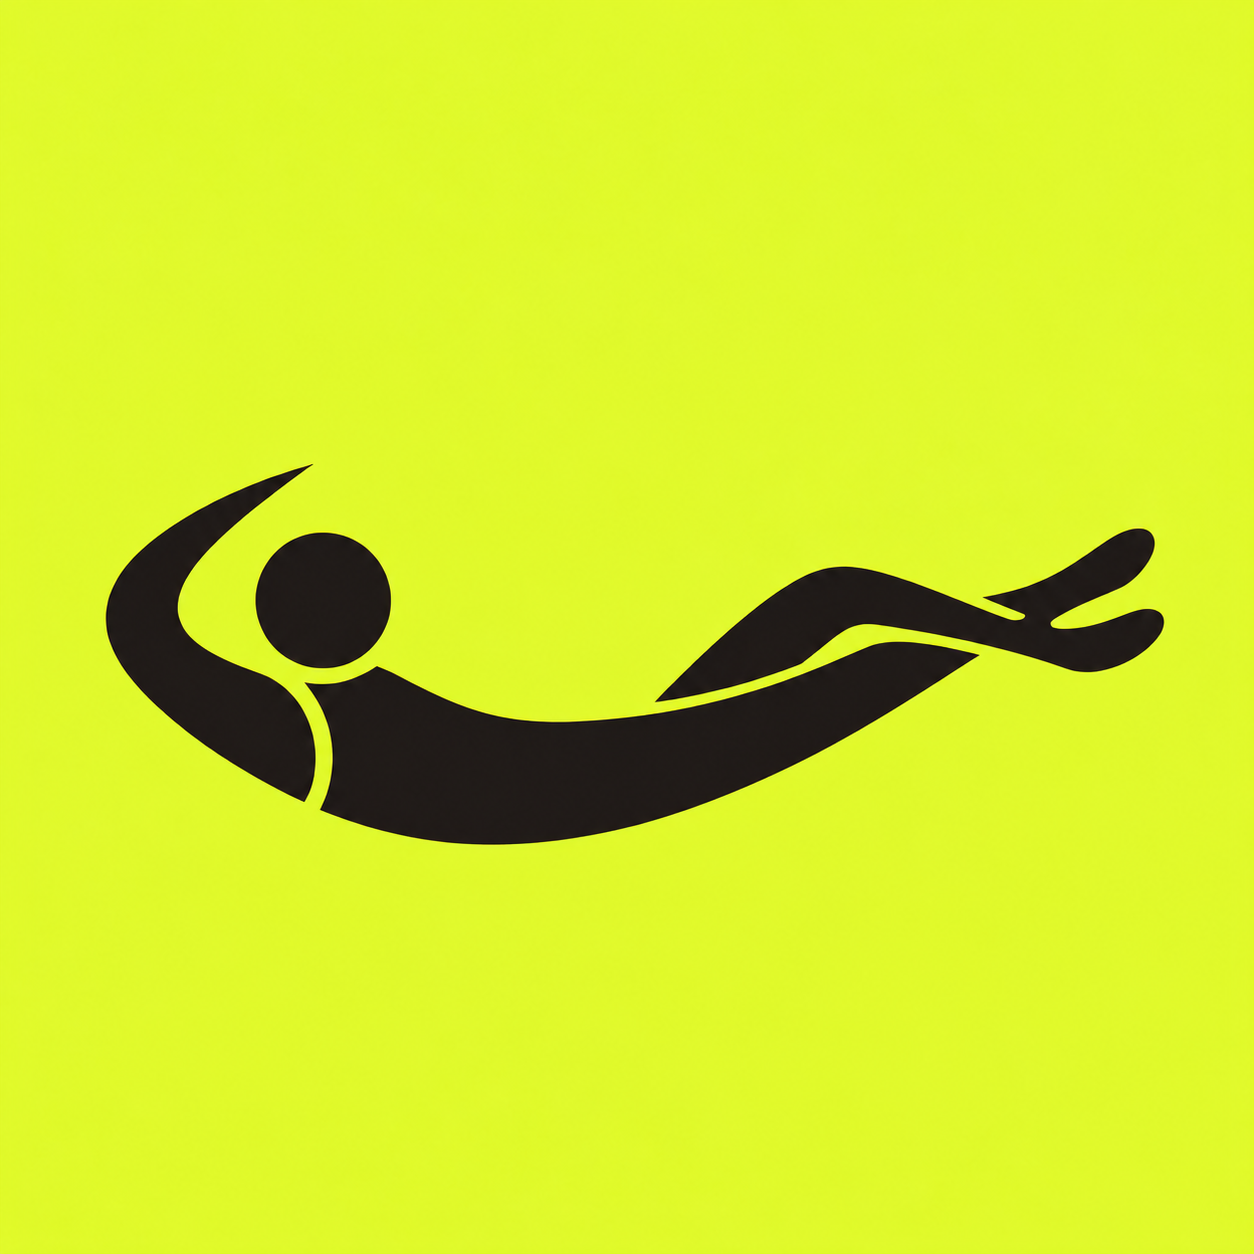
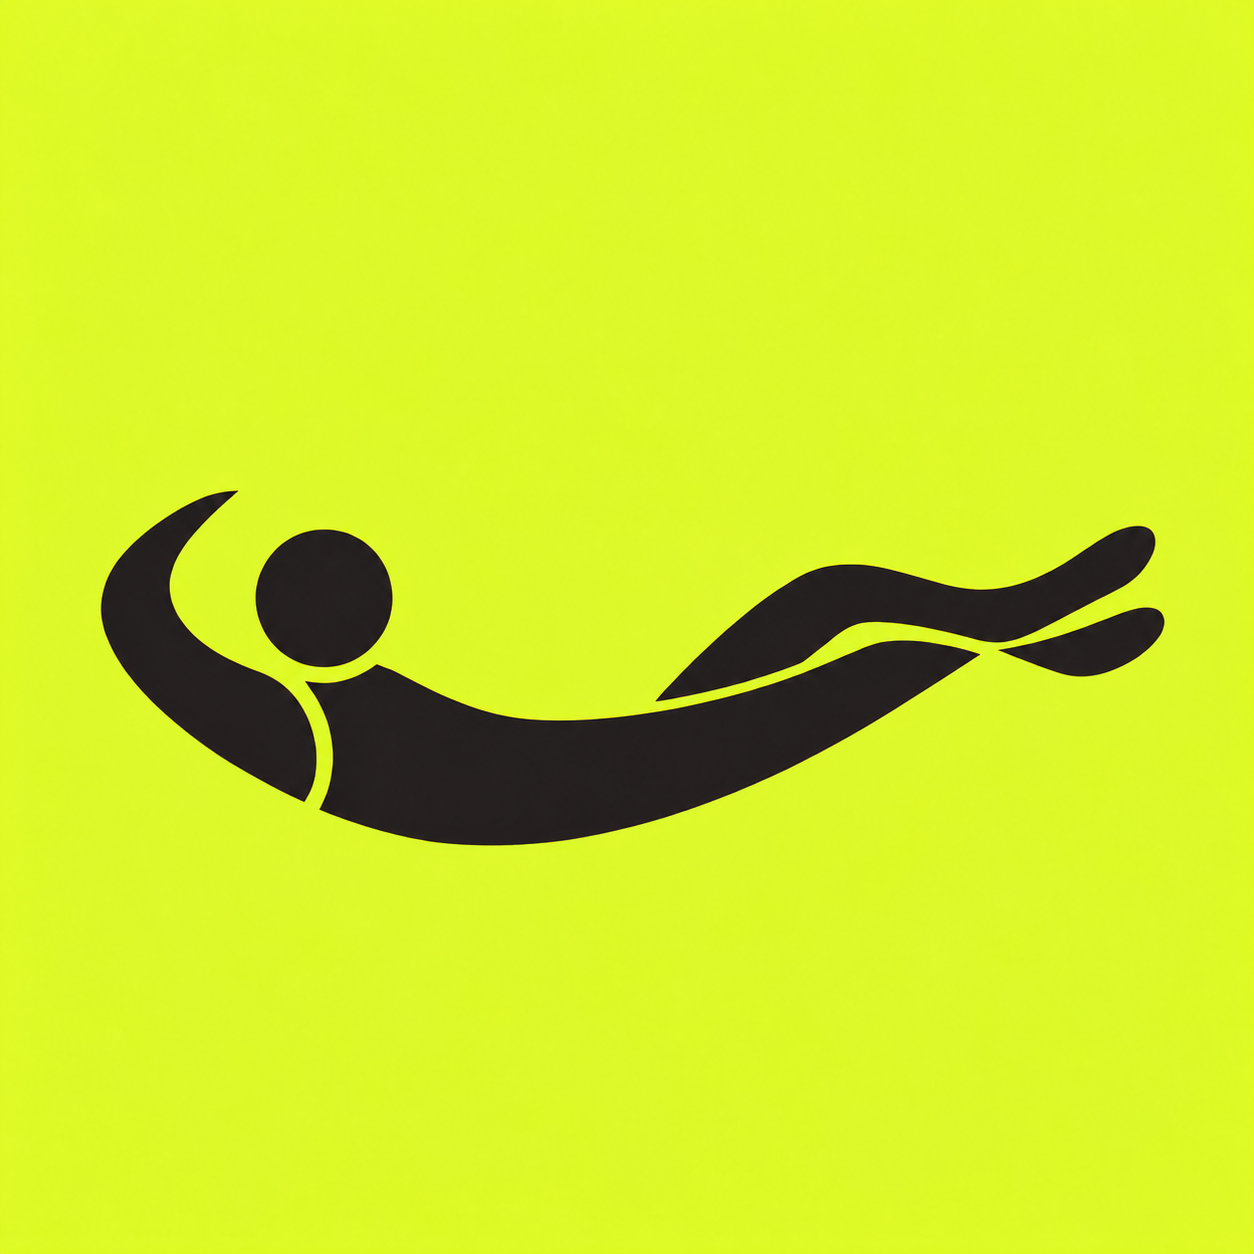
Separate Nooprun feet and strengthen the upper ankle

diff --git a/demos/nooprun/icon-options/index.html b/demos/nooprun/icon-options/index.html
@@ -12,7 +12,7 @@
 </head>
 <body>
 <header><div class="kicker">NOOPRUN / FINAL CANDIDATES</div><h1>눕런 아이콘 10안</h1><p>머리와 목을 분리하고, 팔의 흐름을 다시 정리했어요.<br>같은 색과 같은 크기로 비교해 보세요.</p><div class="toolbar"><div class="switch" aria-label="미리보기 크기"><button data-size="large" aria-pressed="true">큰 시안</button><button data-size="small" aria-pressed="false">아이콘 크기</button></div><span class="hint">그림을 누르면 크게 볼 수 있어요.</span></div></header>
-<main><section class="refined" aria-label="선택한 9번 수정안"><img src="../assets/brand/nooprun-recline.png?v=nine-refined-1" width="1254" height="1254" alt="9번 수정안: 작은 머리, 1번의 팔 곡선, 가늘고 연결된 발목"><div><span class="refined-label">09 / REFINED</span><h2>9번, 조금 더 가볍게.</h2><p>머리는 작게, 팔은 1번의 곡선으로.<br>다리는 가늘게 살짝 교차하고<br>발목에서 발끝까지 이어지도록.</p><a href="../assets/brand/nooprun-recline.png?v=nine-refined-1" download="nooprun-09-refined.png">수정안 PNG 저장 ↓</a></div></section><h2 class="previous-title">처음 10안과 비교</h2><div class="grid" id="grid"></div><div class="selection"><span id="selection">마음에 드는 안에 ✓를 남겨 보세요.</span><button id="copy" disabled>번호 복사</button></div><div class="status" id="status" role="status"></div></main>
+<main><section class="refined" aria-label="선택한 9번 수정안"><img src="../assets/brand/nooprun-recline.png?v=tip-ankle-1" width="1254" height="1254" alt="9번 수정안: 짧게 정리한 손끝, 도톰한 위쪽 발목, 분리된 두 발"><div><span class="refined-label">09 / REFINED</span><h2>9번, 조금 더 가볍게.</h2><p>손끝 위치를 짧게 정리하고,<br>위쪽 발목에는 조금 더 두께를.<br>두 발이 겹치는 사이는 분명하게.</p><a href="../assets/brand/nooprun-recline.png?v=tip-ankle-1" download="nooprun-09-refined.png">수정안 PNG 저장 ↓</a></div></section><h2 class="previous-title">처음 10안과 비교</h2><div class="grid" id="grid"></div><div class="selection"><span id="selection">마음에 드는 안에 ✓를 남겨 보세요.</span><button id="copy" disabled>번호 복사</button></div><div class="status" id="status" role="status"></div></main>
 <footer><span>10개의 검토 후보 · 고르기는 이 화면에서만 저장돼요.</span><span>PNG 원본은 각 시안을 눌러 저장할 수 있어요.</span></footer>
 <dialog id="detail" aria-labelledby="detail-title"><div class="dialog-head"><h2 id="detail-title"></h2><button class="close" aria-label="닫기">×</button></div><img class="detail-img" id="detail-img" alt=""><div class="dialog-foot"><div class="arrows"><button id="prev" aria-label="이전 시안">←</button><button id="next" aria-label="다음 시안">→</button></div><a class="download" id="download" download>PNG 저장 ↓</a></div></dialog>
 <script>

diff --git a/demos/nooprun/app.js b/demos/nooprun/app.js
@@ -100,7 +100,7 @@
     const chartIcon='<path d="M5 20V12m7 8V4m7 16V8"/>';
     const gearIcon='<path d="m10 3 .5-1h3l.5 3 2 1 2.5-1 1.5 2.6-2 2V13l2 2-1.5 2.6-2.5-1-2 1-.5 3h-3l-.5-3-2-1-2.5 1L3 15l2-2V10L3 8l1.5-2.6L7 6l2-1Z"/><circle cx="11.5" cy="11.5" r="3"/>';
     return `<section class="app-screen home lobby-home club-home">
-      <header class="club-header"><h2>집콕</h2><img class="club-app-icon" src="assets/brand/nooprun-recline.png?v=nine-refined-1" width="42" height="42" alt="눕런: 다리를 꼬고 누워 있는 사람"></header>
+      <header class="club-header"><h2>집콕</h2><img class="club-app-icon" src="assets/brand/nooprun-recline.png?v=tip-ankle-1" width="42" height="42" alt="눕런: 다리를 꼬고 누워 있는 사람"></header>
       <nav class="club-mode-tabs" aria-label="집콕 메뉴"><button data-action="home" aria-current="page">바로 시작</button><button data-action="history">나의 기록</button></nav>
       <div class="club-stage">
         <svg class="club-map" viewBox="0 0 375 530" preserveAspectRatio="xMidYMid slice" aria-hidden="true"><rect width="375" height="530" fill="#f1f2ee"/><g fill="#e6e8e3"><path d="M0 42h91v77H0Zm108-40h94v117h-94Zm111 0h80v119h-80Zm98 4h58v116h-58ZM0 138h93v92H0Zm110 0h92v92h-92Zm108 0h89v92h-89Zm108 0h49v92h-49ZM0 250h91v100H0Zm110 0h92v100h-92Zm109 0h86v100h-86Zm107 0h49v100h-49ZM0 370h91v160H0Zm109 0h94v160h-94Zm111 0h90v160h-90Zm109 0h46v160h-46Z"/></g><path d="m-30 410 198-75 250-44" stroke="#fff" stroke-width="21" fill="none"/><path d="m-25 410 198-75 250-44" stroke="#e1e4dd" stroke-width="2" fill="none"/><path d="M-20 152q67 10 101 4t40 36l-22 27H-20Z" fill="#e0e9d9"/><path d="M293 366h82v115h-82z" fill="#e0e9d9"/><g stroke="#daddd6" stroke-width="1" fill="none"><path d="M18 57h55v43H18Zm110-30h54v73h-54Zm109 3h43v70h-43ZM130 156h51v54h-51Zm107 0h51v54h-51ZM16 271h57v55H16Zm116 0h48v55h-48Zm104 0h51v40h-51ZM19 391h52v77H19Zm112-9h50v91h-50Zm104 8h51v99h-51"/></g></svg>

diff --git a/data.js b/data.js
@@ -43,7 +43,7 @@ window.ARCHIVE_ITEMS = [
     id: 'nooprun', title: '눕런', category: 'app',
     tagline: '오늘의 코스는, 집.',
     summary: '집에서 얼마나 뒹굴거렸는지 러닝처럼 기록하는 집순이·집돌이용 앱. 집에서 시작하고, GPS로 집 밖임이 확인되면 자동으로 완주해요.',
-    status: '조작 시안', theme: '#f5f5f7', cover: 'assets/nooprun-poses.png', demo: 'demos/nooprun/?v=nine-refined-1', video: 'assets/nooprun.mp4',
+    status: '조작 시안', theme: '#f5f5f7', cover: 'assets/nooprun-poses.png', demo: 'demos/nooprun/?v=tip-ankle-1', video: 'assets/nooprun.mp4',
     features: ['집 위치·반경 설정 → 집콕 시작', 'GPS 오차를 고려한 외출 자동 종료', '스포츠 앱 패러디 · 사진으로 집콕 인증'],
     note: '위치 권한을 허용하면 화면이 켜진 동안 외출을 감지해요. 집 위치는 브라우저에만 보관해요. 잠금·백그라운드 감지는 모바일 앱에서 별도 구현이 필요해요. 소개 영상은 이전 시안입니다.', updated: '2026-10-30'
   },

diff --git a/demos/nooprun/index.html b/demos/nooprun/index.html
@@ -5,8 +5,8 @@
   <meta name="viewport" content="width=device-width,initial-scale=1">
   <meta name="color-scheme" content="light">
   <title>눕런 — 오늘도, 가만히 완주.</title>
-  <link rel="icon" type="image/png" href="assets/brand/nooprun-recline.png?v=nine-refined-1">
-  <link rel="apple-touch-icon" href="assets/brand/nooprun-recline.png?v=nine-refined-1">
+  <link rel="icon" type="image/png" href="assets/brand/nooprun-recline.png?v=tip-ankle-1">
+  <link rel="apple-touch-icon" href="assets/brand/nooprun-recline.png?v=tip-ankle-1">
   <link rel="stylesheet" href="style.css">
   <link rel="stylesheet" href="lobby.css?v=home-gps-1">
   <link rel="stylesheet" href="session.css?v=home-gps-1">
@@ -57,6 +57,6 @@
   <script src="art.js?v=home-gps-1"></script>
   <script src="voice.js?v=home-gps-1"></script>
   <script src="location.js?v=home-gps-1"></script>
-  <script src="app.js?v=nine-refined-1"></script>
+  <script src="app.js?v=tip-ankle-1"></script>
 </body>
 </html>

diff --git a/index.html b/index.html
@@ -11,7 +11,7 @@
   <title>이 어플 어때? — 아이디어 아카이브</title>
   <link rel="icon" href="favicon.svg" type="image/svg+xml">
   <link rel="stylesheet" href="styles.css?v=social-1">
-  <script src="data.js?v=nooprun-nine-refined-1" defer></script>
+  <script src="data.js?v=nooprun-tip-ankle-1" defer></script>
   <script src="app.js" defer></script>
 </head>
 <body>
